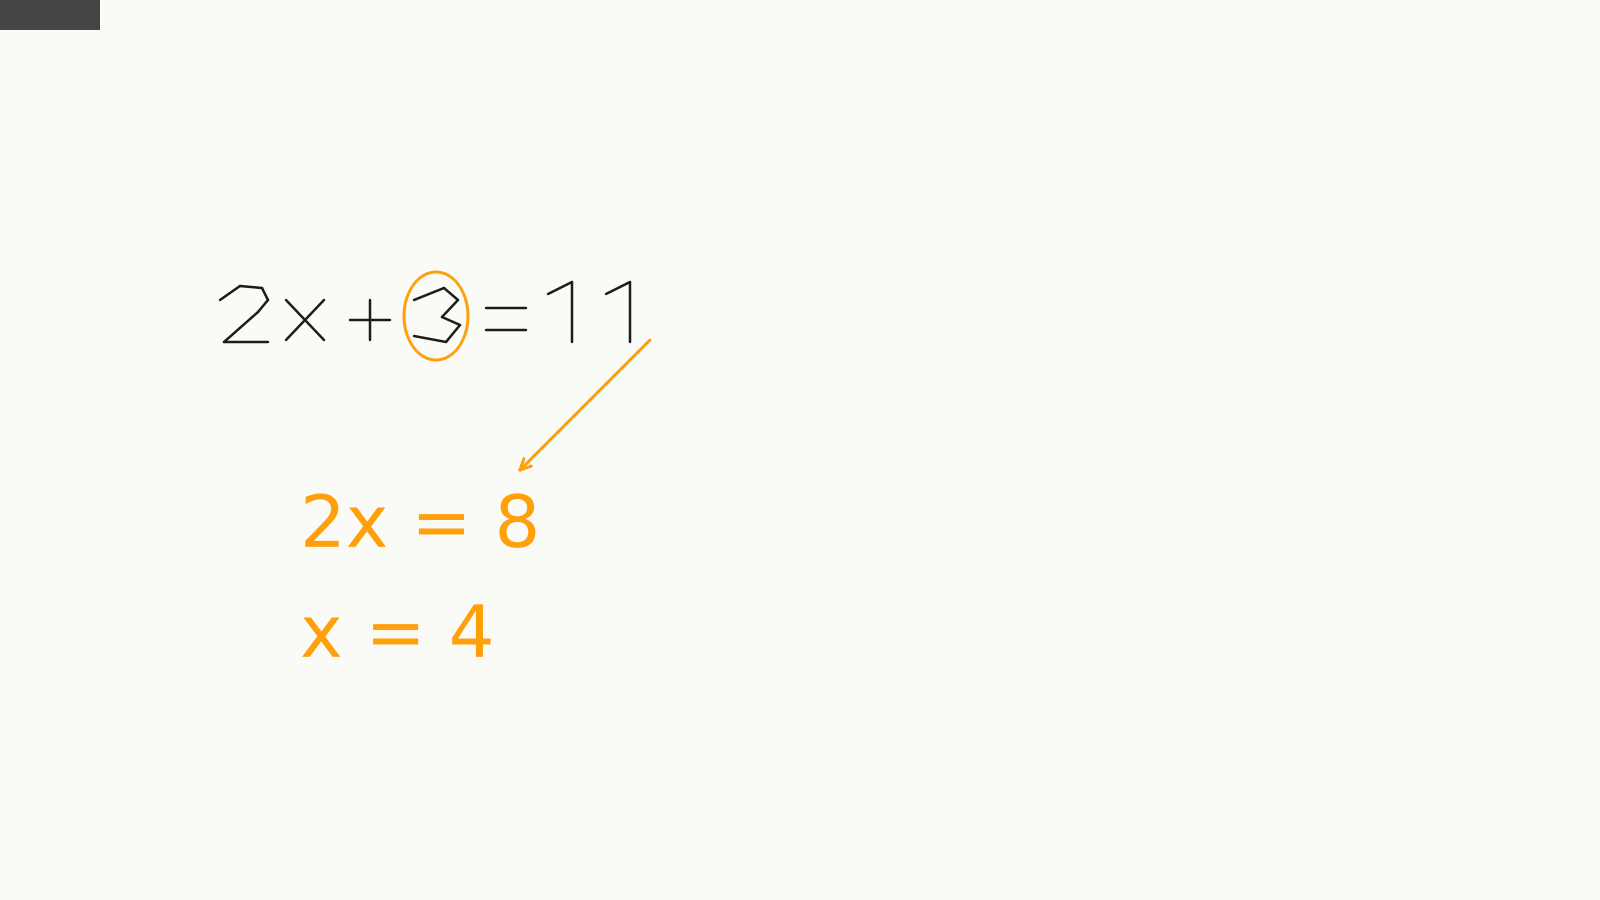
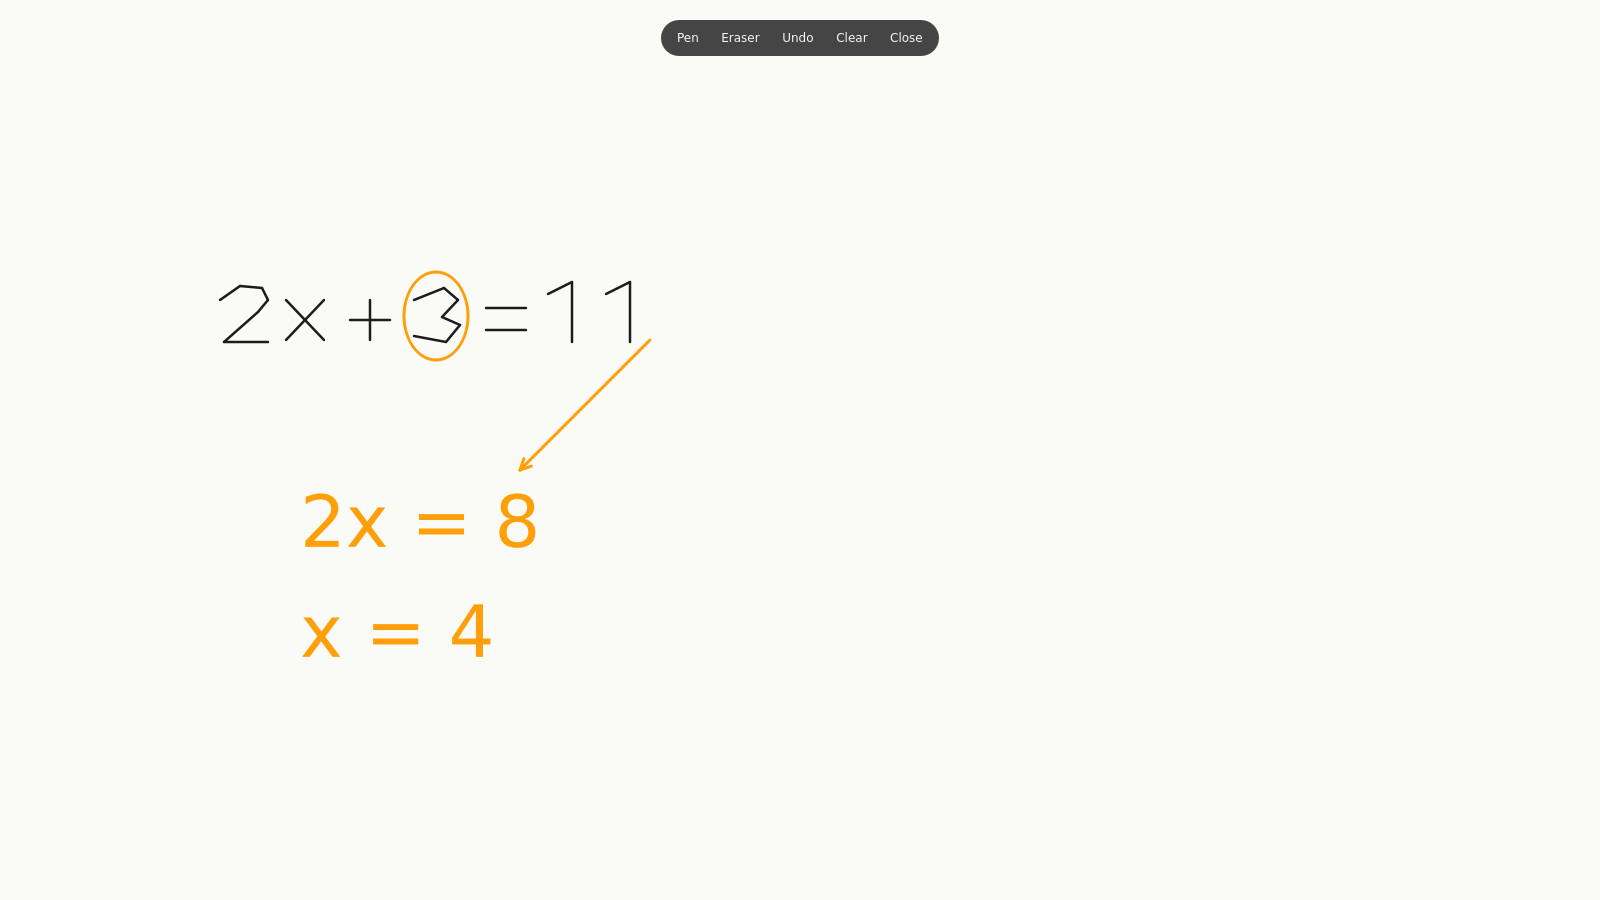
fix: repair grounding and overlay previews

Changed region(s): [[0.4062, 0.0, 0.5938, 0.0622], [0.0, 0.0, 0.0625, 0.0311]]

diff --git a/gerald/perception/grounding.py b/gerald/perception/grounding.py
@@ -301,49 +301,6 @@ def resolve_target(
     if description is not None and not isinstance(description, str):
         raise ValueError("description must be a string")
     target_text = args.get("text")
-    should_ground = "element_id" not in args or force_coordinates
-    query = description or (target_text if isinstance(target_text, str) else "")
-    if should_ground and query:
-        from gerald.perception.grounder import configured_grounder, locate_with_timeout
-
-        grounder = configured_grounder()
-        if grounder is not None:
-            image = capture.full_image or capture.image
-            if image_array is not None:
-                from PIL import Image
-
-                image = Image.fromarray(image_array)
-            point = locate_with_timeout(grounder, image, query, timeout=4.0)
-            if point is not None:
-                grounder_x, grounder_y = point
-                full_image = capture.full_image or capture.image
-                image_x = grounder_x * capture.image.width / max(1, full_image.width)
-                image_y = grounder_y * capture.image.height / max(1, full_image.height)
-                containing = [
-                    element
-                    for element in elements
-                    if element.rect[0] <= image_x <= element.rect[0] + element.rect[2]
-                    and element.rect[1] <= image_y <= element.rect[1] + element.rect[3]
-                ]
-                if containing:
-                    element = min(containing, key=lambda item: item.rect[2] * item.rect[3])
-                    return resolved(_screen_rect(capture, element.rect), "grounder", coordinate_note)
-                if image_array is None:
-                    image_array = np.asarray(image)
-                snapped = _visual_snap(
-                    image_x,
-                    image_y,
-                    capture,
-                    image_array,
-                )
-                if snapped is not None:
-                    return resolved(snapped, "grounder", coordinate_note)
-                return resolved(
-                    _raw_rect(capture, image_x, image_y),
-                    "grounder",
-                    coordinate_note,
-                )
-
     query = None if force_coordinates else args.get("text")
     if query is not None:
         if not isinstance(query, str):
@@ -388,6 +345,39 @@ def resolve_target(
             if _normalize_text(element.name) != _normalize_text(query):
                 rect = _matched_word_rect(element, query)
             return resolved(_screen_rect(capture, rect), _element_layer(element))
+
+    grounder_query = description or (target_text if isinstance(target_text, str) else "")
+    if ("element_id" not in args or force_coordinates) and grounder_query:
+        from gerald.perception.grounder import configured_grounder, locate_with_timeout
+
+        grounder = configured_grounder()
+        if grounder is not None:
+            grounder_image = capture.full_image or capture.image
+            point = locate_with_timeout(grounder, grounder_image, grounder_query, timeout=4.0)
+            if point is not None:
+                grounder_x, grounder_y = point
+                image_x = grounder_x * capture.image.width / max(1, grounder_image.width)
+                image_y = grounder_y * capture.image.height / max(1, grounder_image.height)
+                containing = [
+                    element
+                    for element in elements
+                    if element.rect[0] <= image_x <= element.rect[0] + element.rect[2]
+                    and element.rect[1] <= image_y <= element.rect[1] + element.rect[3]
+                ]
+                if containing:
+                    element = min(containing, key=lambda item: item.rect[2] * item.rect[3])
+                    return resolved(_screen_rect(capture, element.rect), "grounder", coordinate_note)
+                snap_image = image_array if image_array is not None else np.asarray(capture.image)
+                snapped = _visual_snap(image_x, image_y, capture, snap_image)
+                if snapped is not None:
+                    return resolved(snapped, "grounder", coordinate_note)
+                return resolved(
+                    _raw_rect(capture, image_x, image_y),
+                    "grounder",
+                    coordinate_note,
+                )
+
+    if query is not None:
         if "x" not in args or "y" not in args:
             raise ValueError(f"text not found on screen: {query}")
         coordinate_note = "text not found, used x,y"

diff --git a/tests/test_grounder.py b/tests/test_grounder.py
@@ -146,3 +146,83 @@ def test_grounder_result_prefers_containing_element(monkeypatch):
     )
 
     assert result == GroundingResolution(ScreenRect(110, 64, 40, 30), "grounder")
+
+
+def test_text_match_does_not_call_grounder(monkeypatch):
+    capture = capture_from_image(
+        Image.new("RGB", (240, 160), "white"),
+        MonitorRect(0, 0, 240, 160),
+    )
+    element = Element(0, "text", "Search Wikipedia", (20, 10, 80, 18), "ocr")
+    calls = []
+
+    class FakeGrounder:
+        def locate(self, _image, _description):
+            calls.append(True)
+            return None
+
+    monkeypatch.setattr(grounder_module, "configured_grounder", lambda: FakeGrounder())
+
+    result = resolve_target(
+        {"text": "Search Wikipedia", "description": "search input"},
+        capture,
+        [element],
+        with_details=True,
+    )
+
+    assert result == GroundingResolution(ScreenRect(20, 10, 80, 18), "text")
+    assert calls == []
+
+
+def test_unmatched_text_uses_description_grounder(monkeypatch):
+    capture = capture_from_image(
+        Image.new("RGB", (240, 160), "white"),
+        MonitorRect(0, 0, 240, 160),
+    )
+    descriptions = []
+
+    class FakeGrounder:
+        def locate(self, _image, description):
+            descriptions.append(description)
+            return 120, 80
+
+    monkeypatch.setattr(grounder_module, "configured_grounder", lambda: FakeGrounder())
+
+    result = resolve_target(
+        {"text": "Mic", "description": "microphone icon"},
+        capture,
+        [],
+        with_details=True,
+    )
+
+    assert isinstance(result, GroundingResolution)
+    assert result.layer == "grounder"
+    assert descriptions == ["microphone icon"]
+
+
+def test_grounder_uses_full_image_and_scales_point_to_capture_image(monkeypatch):
+    capture = capture_from_image(
+        Image.new("RGB", (400, 200), "white"),
+        MonitorRect(10, 20, 400, 200),
+        max_width=200,
+    )
+    element = Element(0, "button", "Target", (145, 45, 20, 10), "uia")
+    seen_sizes = []
+
+    class FakeGrounder:
+        def locate(self, image, _description):
+            seen_sizes.append(image.size)
+            return 300, 100
+
+    monkeypatch.setattr(grounder_module, "configured_grounder", lambda: FakeGrounder())
+
+    result = resolve_target(
+        {"description": "target button"},
+        capture,
+        [element],
+        np.asarray(capture.image),
+        with_details=True,
+    )
+
+    assert result == GroundingResolution(ScreenRect(300, 110, 40, 20), "grounder")
+    assert seen_sizes == [(400, 200)]

diff --git a/gerald/overlay/window.py b/gerald/overlay/window.py
@@ -311,6 +311,7 @@ class _ConfirmationPill(QWidget):
         self.owner = owner
         self.finish = finish
         self.setAttribute(Qt.WidgetAttribute.WA_TranslucentBackground, True)
+        self.setAutoFillBackground(False)
         self.setAttribute(Qt.WidgetAttribute.WA_ShowWithoutActivating, True)
         layout = QHBoxLayout(self)
         layout.setContentsMargins(16, 10, 16, 10)
@@ -348,8 +349,17 @@ class _ConfirmationPill(QWidget):
         del event
         painter = QPainter(self)
         painter.setRenderHint(QPainter.RenderHint.Antialiasing)
+        painter.setCompositionMode(QPainter.CompositionMode.CompositionMode_Source)
+        painter.fillRect(self.rect(), QColor(0, 0, 0, 0))
+        painter.setCompositionMode(QPainter.CompositionMode.CompositionMode_SourceOver)
         dark = self.owner._dark_for_global_logical(self.frameGeometry().center())
-        self.owner._draw_glass_card(painter, QRectF(self.rect()), self.height() / 2, dark)
+        card = QRectF(self.rect()).adjusted(0.5, 0.5, -0.5, -0.5)
+        path = QPainterPath()
+        path.addRoundedRect(card, self.height() / 2, self.height() / 2)
+        painter.save()
+        painter.setClipPath(path)
+        self.owner._draw_glass_card(painter, card, self.height() / 2, dark)
+        painter.restore()
         _fill, label, _hairline = self.owner._palette_colors(dark)
         self.label.setStyleSheet(
             f"QLabel {{ background: transparent; color: {label.name()}; }}"

diff --git a/gerald/board.py b/gerald/board.py
@@ -97,6 +97,7 @@ class BoardWindow(QWidget):
             button = QPushButton(name, self._toolbar)
             button.clicked.connect(callback)
             toolbar.addWidget(button)
+        self._position_toolbar()
 
     def open_on_screen(self, screen, dark: bool | None = None) -> None:
         if dark is None:
@@ -106,13 +107,25 @@ class BoardWindow(QWidget):
             dark = QApplication.palette().color(QPalette.ColorRole.Window).lightness() < 128
         self._dark = dark
         self.setGeometry(screen.geometry())
-        self._toolbar.adjustSize()
-        self._toolbar.move((self.width() - self._toolbar.width()) // 2, 20)
+        self._position_toolbar()
         self.show()
         self.raise_()
         self.activateWindow()
         self.setFocus()
         self.update()
+
+    def resizeEvent(self, event) -> None:
+        super().resizeEvent(event)
+        self._position_toolbar()
+
+    def _position_toolbar(self) -> None:
+        if not hasattr(self, "_toolbar"):
+            return
+        self._toolbar.adjustSize()
+        x = max(0, (self.width() - self._toolbar.width()) // 2)
+        y = min(20, max(0, self.height() - self._toolbar.height()))
+        self._toolbar.move(x, y)
+        self._toolbar.show()
 
     def set_tool(self, tool: str) -> None:
         self._tool = tool

diff --git a/tests/test_overlay.py b/tests/test_overlay.py
@@ -105,6 +105,7 @@ def test_confirmation_pill_renders_and_declines_without_accepting_focus():
     assert pill is not None
     assert pill.windowFlags() & Qt.WindowType.WindowDoesNotAcceptFocus
     assert not pill.windowFlags() & Qt.WindowType.WindowTransparentForInput
+    assert pill.testAttribute(Qt.WidgetAttribute.WA_TranslucentBackground)
     assert pill.label.font().pointSize() == 13
     assert pill.height() >= 32
     assert all(button.minimumHeight() >= 24 for button, _approved in pill.buttons)
@@ -113,7 +114,9 @@ def test_confirmation_pill_renders_and_declines_without_accepting_focus():
     painter = QPainter(image)
     pill.render(painter)
     painter.end()
-    assert image.pixelColor(12, 12).alpha() > 0
+    assert image.pixelColor(0, 0).alpha() == 0
+    assert image.pixelColor(image.width() - 1, image.height() - 1).alpha() == 0
+    assert image.pixelColor(image.width() // 2, image.height() // 2).alpha() > 0
 
     assert overlay.dismiss_confirmation()
     assert completion.is_set()

diff --git a/tests/test_board.py b/tests/test_board.py
@@ -5,7 +5,7 @@ os.environ.setdefault("QT_QPA_PLATFORM", "offscreen")
 
 from PyQt6.QtCore import Qt
 from PyQt6.QtTest import QTest
-from PyQt6.QtWidgets import QApplication
+from PyQt6.QtWidgets import QApplication, QPushButton
 
 from gerald.board import BoardWindow, group_strokes
 
@@ -78,3 +78,25 @@ def test_escape_closes_board():
 
     assert not board.isVisible()
     board.close()
+
+
+def test_toolbar_is_visible_and_centered_at_top():
+    app = QApplication.instance() or QApplication([])
+    board = BoardWindow()
+    board.resize(640, 480)
+    board.show()
+    app.processEvents()
+
+    toolbar = board._toolbar
+    assert toolbar.isVisible()
+    assert toolbar.y() == 20
+    assert toolbar.x() == (board.width() - toolbar.width()) // 2
+    assert [button.text() for button in toolbar.findChildren(QPushButton)] == [
+        "Pen",
+        "Eraser",
+        "Undo",
+        "Clear",
+        "Close",
+    ]
+    board.close()
+    app.processEvents()

diff --git a/scripts/render_confirm_preview.py b/scripts/render_confirm_preview.py
@@ -90,8 +90,12 @@ def render() -> None:
     app.processEvents()
     painter.save()
     painter.scale(dpr, dpr)
-    painter.translate(pill.x(), pill.y())
-    pill.render(painter)
+    pill_image = QImage(pill.size(), QImage.Format.Format_ARGB32)
+    pill_image.fill(0)
+    pill_painter = QPainter(pill_image)
+    pill.render(pill_painter)
+    pill_painter.end()
+    painter.drawImage(pill.x(), pill.y(), pill_image)
     painter.restore()
     painter.end()
     screen.save(str(OUTPUT))

diff --git a/scripts/render_board_preview.py b/scripts/render_board_preview.py
@@ -43,6 +43,7 @@ def main() -> int:
     )
     for _ in range(30):
         board._advance_reveals()
+    board.show()
     app.processEvents()
 
     image = QImage(board.size(), QImage.Format.Format_ARGB32)
